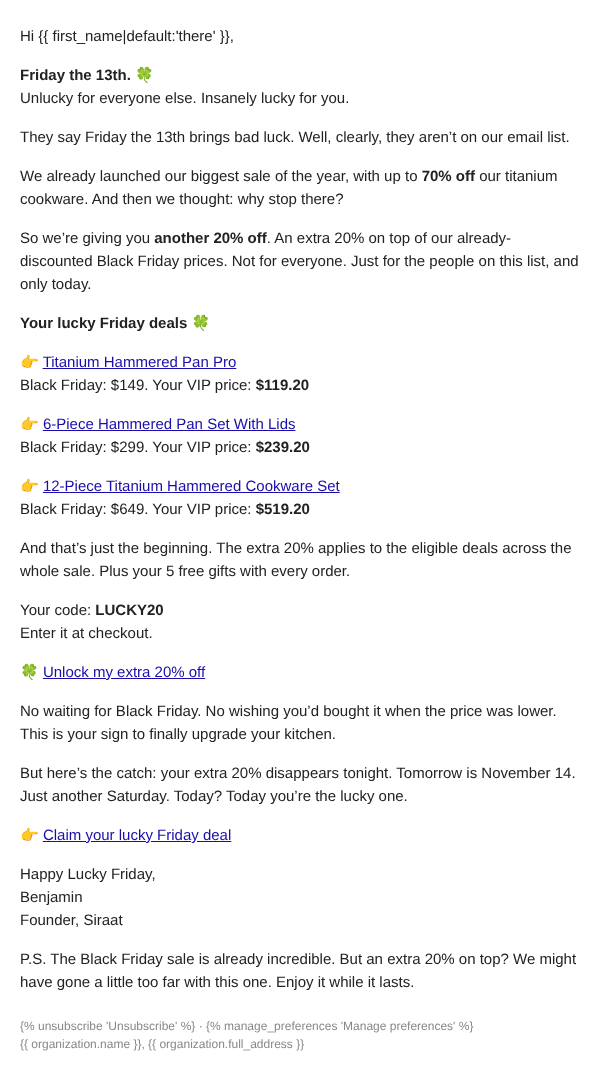
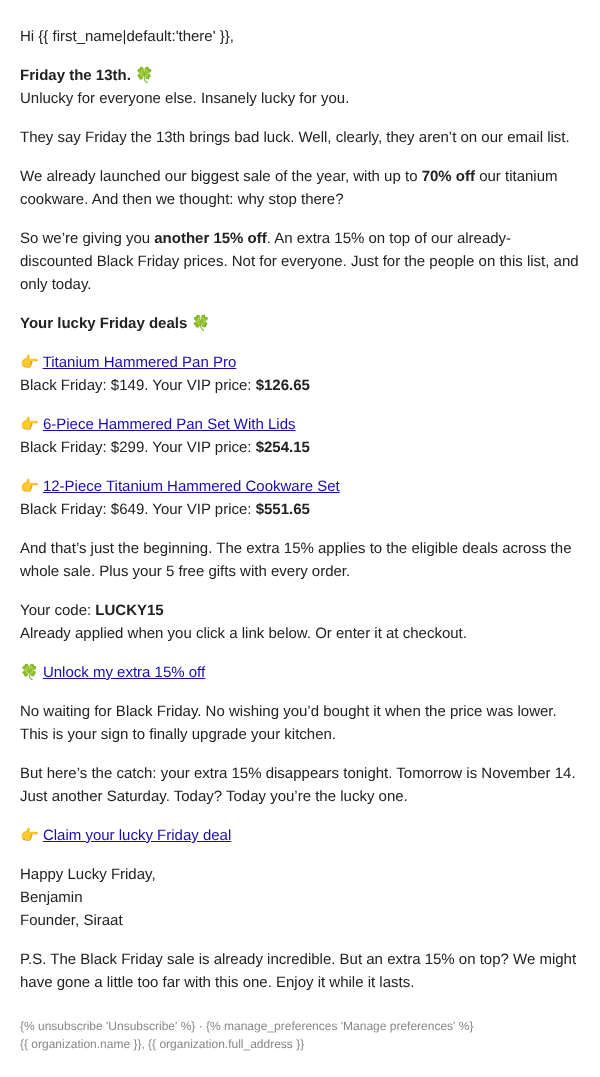
F13: LUCKY15 code en mails naar 15%
Claude-Session: https://claude.ai/code/session_01HjCaDE95ohEXY6DPZTSH67

diff --git a/klaviyo/templates/v3/campaigns/friday13-1113/f13-text-us.html b/klaviyo/templates/v3/campaigns/friday13-1113/f13-text-us.html
@@ -1,26 +1,26 @@
 <!DOCTYPE html>
 <html lang="en"><head><meta charset="utf-8"/><meta name="viewport" content="width=device-width, initial-scale=1"/><title>Friday the 13th</title></head>
 <body style="margin:0;padding:0;background:#ffffff;">
-<div style="display:none;font-size:1px;line-height:1px;max-height:0;max-width:0;opacity:0;overflow:hidden;">An extra 20% off on top of Black Friday. Code LUCKY20, today only.</div>
+<div style="display:none;font-size:1px;line-height:1px;max-height:0;max-width:0;opacity:0;overflow:hidden;">An extra 15% off on top of Black Friday. Code LUCKY15, today only.</div>
 <table role="presentation" width="100%" cellpadding="0" cellspacing="0" border="0" style="background:#ffffff;"><tr><td align="left" style="padding:24px 20px;">
 <table role="presentation" width="100%" cellpadding="0" cellspacing="0" border="0" style="max-width:560px;"><tr><td style="font-family:Arial,Helvetica,sans-serif;font-size:15px;line-height:23px;color:#222222;">
 <p style="margin:0 0 16px 0;">Hi {{ first_name|default:'there' }},</p>
 <p style="margin:0 0 16px 0;"><strong>Friday the 13th. 🍀</strong><br/>Unlucky for everyone else. Insanely lucky for you.</p>
 <p style="margin:0 0 16px 0;">They say Friday the 13th brings bad luck. Well, clearly, they aren&rsquo;t on our email list.</p>
 <p style="margin:0 0 16px 0;">We already launched our biggest sale of the year, with up to <strong>70% off</strong> our titanium cookware. And then we thought: why stop there?</p>
-<p style="margin:0 0 16px 0;">So we&rsquo;re giving you <strong>another 20% off</strong>. An extra 20% on top of our already-discounted Black Friday prices. Not for everyone. Just for the people on this list, and only today.</p>
+<p style="margin:0 0 16px 0;">So we&rsquo;re giving you <strong>another 15% off</strong>. An extra 15% on top of our already-discounted Black Friday prices. Not for everyone. Just for the people on this list, and only today.</p>
 <p style="margin:0 0 16px 0;"><strong>Your lucky Friday deals 🍀</strong></p>
-<p style="margin:0 0 16px 0;">👉 <a href="https://siraatskitchen.com/collections/black-friday?utm_source=klaviyo&amp;utm_medium=email&amp;utm_campaign=f13-1113-us-text&amp;utm_content=panpro" style="color:#1a0dab;text-decoration:underline;">Titanium Hammered Pan Pro</a><br/>Black Friday: $149. Your VIP price: <strong>$119.20</strong></p>
-<p style="margin:0 0 16px 0;">👉 <a href="https://siraatskitchen.com/collections/black-friday?utm_source=klaviyo&amp;utm_medium=email&amp;utm_campaign=f13-1113-us-text&amp;utm_content=6pcs" style="color:#1a0dab;text-decoration:underline;">6-Piece Hammered Pan Set With Lids</a><br/>Black Friday: $299. Your VIP price: <strong>$239.20</strong></p>
-<p style="margin:0 0 16px 0;">👉 <a href="https://siraatskitchen.com/collections/black-friday?utm_source=klaviyo&amp;utm_medium=email&amp;utm_campaign=f13-1113-us-text&amp;utm_content=12pcs" style="color:#1a0dab;text-decoration:underline;">12-Piece Titanium Hammered Cookware Set</a><br/>Black Friday: $649. Your VIP price: <strong>$519.20</strong></p>
-<p style="margin:0 0 16px 0;">And that&rsquo;s just the beginning. The extra 20% applies to the eligible deals across the whole sale. Plus your 5 free gifts with every order.</p>
-<p style="margin:0 0 16px 0;">Your code: <strong>LUCKY20</strong><br/>Enter it at checkout.</p>
-<p style="margin:0 0 16px 0;">🍀 <a href="https://siraatskitchen.com/collections/black-friday?utm_source=klaviyo&amp;utm_medium=email&amp;utm_campaign=f13-1113-us-text&amp;utm_content=cta1" style="color:#1a0dab;text-decoration:underline;">Unlock my extra 20% off</a></p>
+<p style="margin:0 0 16px 0;">👉 <a href="https://siraatskitchen.com/discount/LUCKY15?redirect=/collections/black-friday&amp;utm_source=klaviyo&amp;utm_medium=email&amp;utm_campaign=f13-1113-us-text&amp;utm_content=panpro" style="color:#1a0dab;text-decoration:underline;">Titanium Hammered Pan Pro</a><br/>Black Friday: $149. Your VIP price: <strong>$126.65</strong></p>
+<p style="margin:0 0 16px 0;">👉 <a href="https://siraatskitchen.com/discount/LUCKY15?redirect=/collections/black-friday&amp;utm_source=klaviyo&amp;utm_medium=email&amp;utm_campaign=f13-1113-us-text&amp;utm_content=6pcs" style="color:#1a0dab;text-decoration:underline;">6-Piece Hammered Pan Set With Lids</a><br/>Black Friday: $299. Your VIP price: <strong>$254.15</strong></p>
+<p style="margin:0 0 16px 0;">👉 <a href="https://siraatskitchen.com/discount/LUCKY15?redirect=/collections/black-friday&amp;utm_source=klaviyo&amp;utm_medium=email&amp;utm_campaign=f13-1113-us-text&amp;utm_content=12pcs" style="color:#1a0dab;text-decoration:underline;">12-Piece Titanium Hammered Cookware Set</a><br/>Black Friday: $649. Your VIP price: <strong>$551.65</strong></p>
+<p style="margin:0 0 16px 0;">And that&rsquo;s just the beginning. The extra 15% applies to the eligible deals across the whole sale. Plus your 5 free gifts with every order.</p>
+<p style="margin:0 0 16px 0;">Your code: <strong>LUCKY15</strong><br/>Already applied when you click a link below. Or enter it at checkout.</p>
+<p style="margin:0 0 16px 0;">🍀 <a href="https://siraatskitchen.com/discount/LUCKY15?redirect=/collections/black-friday&amp;utm_source=klaviyo&amp;utm_medium=email&amp;utm_campaign=f13-1113-us-text&amp;utm_content=cta1" style="color:#1a0dab;text-decoration:underline;">Unlock my extra 15% off</a></p>
 <p style="margin:0 0 16px 0;">No waiting for Black Friday. No wishing you&rsquo;d bought it when the price was lower. This is your sign to finally upgrade your kitchen.</p>
-<p style="margin:0 0 16px 0;">But here&rsquo;s the catch: your extra 20% disappears tonight. Tomorrow is November 14. Just another Saturday. Today? Today you&rsquo;re the lucky one.</p>
-<p style="margin:0 0 16px 0;">👉 <a href="https://siraatskitchen.com/collections/black-friday?utm_source=klaviyo&amp;utm_medium=email&amp;utm_campaign=f13-1113-us-text&amp;utm_content=cta2" style="color:#1a0dab;text-decoration:underline;">Claim your lucky Friday deal</a></p>
+<p style="margin:0 0 16px 0;">But here&rsquo;s the catch: your extra 15% disappears tonight. Tomorrow is November 14. Just another Saturday. Today? Today you&rsquo;re the lucky one.</p>
+<p style="margin:0 0 16px 0;">👉 <a href="https://siraatskitchen.com/discount/LUCKY15?redirect=/collections/black-friday&amp;utm_source=klaviyo&amp;utm_medium=email&amp;utm_campaign=f13-1113-us-text&amp;utm_content=cta2" style="color:#1a0dab;text-decoration:underline;">Claim your lucky Friday deal</a></p>
 <p style="margin:0 0 16px 0;">Happy Lucky Friday,<br/>Benjamin<br/>Founder, Siraat</p>
-<p style="margin:0 0 24px 0;">P.S. The Black Friday sale is already incredible. But an extra 20% on top? We might have gone a little too far with this one. Enjoy it while it lasts.</p>
+<p style="margin:0 0 24px 0;">P.S. The Black Friday sale is already incredible. But an extra 15% on top? We might have gone a little too far with this one. Enjoy it while it lasts.</p>
 <p style="margin:0;font-size:12px;line-height:18px;color:#888888;">{% unsubscribe 'Unsubscribe' %} &middot; {% manage_preferences 'Manage preferences' %}<br/>{{ organization.name }}, {{ organization.full_address }}</p>
 </td></tr></table>
 </td></tr></table>

diff --git a/klaviyo/templates/v3/campaigns/friday13-1113/f13-text-int.html b/klaviyo/templates/v3/campaigns/friday13-1113/f13-text-int.html
@@ -1,24 +1,24 @@
 <!DOCTYPE html>
 <html lang="en"><head><meta charset="utf-8"/><meta name="viewport" content="width=device-width, initial-scale=1"/><title>Friday the 13th</title></head>
 <body style="margin:0;padding:0;background:#ffffff;">
-<div style="display:none;font-size:1px;line-height:1px;max-height:0;max-width:0;opacity:0;overflow:hidden;">An extra 20% off on top of Black Friday. Code LUCKY20, today only.</div>
+<div style="display:none;font-size:1px;line-height:1px;max-height:0;max-width:0;opacity:0;overflow:hidden;">An extra 15% off on top of Black Friday. Code LUCKY15, today only.</div>
 <table role="presentation" width="100%" cellpadding="0" cellspacing="0" border="0" style="background:#ffffff;"><tr><td align="left" style="padding:24px 20px;">
 <table role="presentation" width="100%" cellpadding="0" cellspacing="0" border="0" style="max-width:560px;"><tr><td style="font-family:Arial,Helvetica,sans-serif;font-size:15px;line-height:23px;color:#222222;">
 <p style="margin:0 0 16px 0;">Hi {{ first_name|default:'there' }},</p>
 <p style="margin:0 0 16px 0;"><strong>Friday the 13th. 🍀</strong><br/>Unlucky for everyone else. Insanely lucky for you.</p>
 <p style="margin:0 0 16px 0;">They say Friday the 13th brings bad luck. Well, clearly, they aren&rsquo;t on our email list.</p>
 <p style="margin:0 0 16px 0;">We already launched our biggest sale of the year, with up to <strong>70% off</strong> our titanium cookware. And then we thought: why stop there?</p>
-<p style="margin:0 0 16px 0;">So we&rsquo;re giving you <strong>another 20% off</strong>. An extra 20% on top of our already-discounted Black Friday prices. Not for everyone. Just for the people on this list, and only today.</p>
+<p style="margin:0 0 16px 0;">So we&rsquo;re giving you <strong>another 15% off</strong>. An extra 15% on top of our already-discounted Black Friday prices. Not for everyone. Just for the people on this list, and only today.</p>
 <p style="margin:0 0 16px 0;"><strong>Your lucky Friday deals 🍀</strong></p>
-<p style="margin:0 0 16px 0;">👉 <a href="https://siraatskitchen.com/collections/black-friday?utm_source=klaviyo&amp;utm_medium=email&amp;utm_campaign=f13-1113-int-text&amp;utm_content=panpro" style="color:#1a0dab;text-decoration:underline;">Titanium Hammered Pan Pro</a><br/>👉 <a href="https://siraatskitchen.com/collections/black-friday?utm_source=klaviyo&amp;utm_medium=email&amp;utm_campaign=f13-1113-int-text&amp;utm_content=6pcs" style="color:#1a0dab;text-decoration:underline;">6-Piece Hammered Pan Set With Lids</a><br/>👉 <a href="https://siraatskitchen.com/collections/black-friday?utm_source=klaviyo&amp;utm_medium=email&amp;utm_campaign=f13-1113-int-text&amp;utm_content=12pcs" style="color:#1a0dab;text-decoration:underline;">12-Piece Titanium Hammered Cookware Set</a><br/>All an extra 20% off on top of the Black Friday price.</p>
-<p style="margin:0 0 16px 0;">And that&rsquo;s just the beginning. The extra 20% applies to the eligible deals across the whole sale. Plus your 5 free gifts with every order.</p>
-<p style="margin:0 0 16px 0;">Your code: <strong>LUCKY20</strong><br/>Enter it at checkout.</p>
-<p style="margin:0 0 16px 0;">🍀 <a href="https://siraatskitchen.com/collections/black-friday?utm_source=klaviyo&amp;utm_medium=email&amp;utm_campaign=f13-1113-int-text&amp;utm_content=cta1" style="color:#1a0dab;text-decoration:underline;">Unlock my extra 20% off</a></p>
+<p style="margin:0 0 16px 0;">👉 <a href="https://siraatskitchen.com/discount/LUCKY15?redirect=/collections/black-friday&amp;utm_source=klaviyo&amp;utm_medium=email&amp;utm_campaign=f13-1113-int-text&amp;utm_content=panpro" style="color:#1a0dab;text-decoration:underline;">Titanium Hammered Pan Pro</a><br/>👉 <a href="https://siraatskitchen.com/discount/LUCKY15?redirect=/collections/black-friday&amp;utm_source=klaviyo&amp;utm_medium=email&amp;utm_campaign=f13-1113-int-text&amp;utm_content=6pcs" style="color:#1a0dab;text-decoration:underline;">6-Piece Hammered Pan Set With Lids</a><br/>👉 <a href="https://siraatskitchen.com/discount/LUCKY15?redirect=/collections/black-friday&amp;utm_source=klaviyo&amp;utm_medium=email&amp;utm_campaign=f13-1113-int-text&amp;utm_content=12pcs" style="color:#1a0dab;text-decoration:underline;">12-Piece Titanium Hammered Cookware Set</a><br/>All an extra 15% off on top of the Black Friday price.</p>
+<p style="margin:0 0 16px 0;">And that&rsquo;s just the beginning. The extra 15% applies to the eligible deals across the whole sale. Plus your 5 free gifts with every order.</p>
+<p style="margin:0 0 16px 0;">Your code: <strong>LUCKY15</strong><br/>Already applied when you click a link below. Or enter it at checkout.</p>
+<p style="margin:0 0 16px 0;">🍀 <a href="https://siraatskitchen.com/discount/LUCKY15?redirect=/collections/black-friday&amp;utm_source=klaviyo&amp;utm_medium=email&amp;utm_campaign=f13-1113-int-text&amp;utm_content=cta1" style="color:#1a0dab;text-decoration:underline;">Unlock my extra 15% off</a></p>
 <p style="margin:0 0 16px 0;">No waiting for Black Friday. No wishing you&rsquo;d bought it when the price was lower. This is your sign to finally upgrade your kitchen.</p>
-<p style="margin:0 0 16px 0;">But here&rsquo;s the catch: your extra 20% disappears tonight. Tomorrow is November 14. Just another Saturday. Today? Today you&rsquo;re the lucky one.</p>
-<p style="margin:0 0 16px 0;">👉 <a href="https://siraatskitchen.com/collections/black-friday?utm_source=klaviyo&amp;utm_medium=email&amp;utm_campaign=f13-1113-int-text&amp;utm_content=cta2" style="color:#1a0dab;text-decoration:underline;">Claim your lucky Friday deal</a></p>
+<p style="margin:0 0 16px 0;">But here&rsquo;s the catch: your extra 15% disappears tonight. Tomorrow is November 14. Just another Saturday. Today? Today you&rsquo;re the lucky one.</p>
+<p style="margin:0 0 16px 0;">👉 <a href="https://siraatskitchen.com/discount/LUCKY15?redirect=/collections/black-friday&amp;utm_source=klaviyo&amp;utm_medium=email&amp;utm_campaign=f13-1113-int-text&amp;utm_content=cta2" style="color:#1a0dab;text-decoration:underline;">Claim your lucky Friday deal</a></p>
 <p style="margin:0 0 16px 0;">Happy Lucky Friday,<br/>Benjamin<br/>Founder, Siraat</p>
-<p style="margin:0 0 24px 0;">P.S. The Black Friday sale is already incredible. But an extra 20% on top? We might have gone a little too far with this one. Enjoy it while it lasts.</p>
+<p style="margin:0 0 24px 0;">P.S. The Black Friday sale is already incredible. But an extra 15% on top? We might have gone a little too far with this one. Enjoy it while it lasts.</p>
 <p style="margin:0;font-size:12px;line-height:18px;color:#888888;">{% unsubscribe 'Unsubscribe' %} &middot; {% manage_preferences 'Manage preferences' %}<br/>{{ organization.name }}, {{ organization.full_address }}</p>
 </td></tr></table>
 </td></tr></table>

diff --git a/LOG.md b/LOG.md
@@ -520,3 +520,4 @@ Nieuwste bovenaan. Elke regel: datum, wat er gedaan is, wat het opleverde of wat
 - 2026-11-13: F13 uitsluiting geanalyseerd. Kopers 30 dagen in audience: 5,548 (US 4,340, INT 1,208), waarvan 2,167 met onvervulde laatste order (US 2,124, vooral 8 tot 30 dagen oud, backorders). Advies optie A (alle kopers 30 dagen uitsluiten, ook vanwege 30 dagen retour als price-match route). Segment WFqvwp 'Siraat // Buyers last 30 days (F13 exclusion)' aangemaakt, nog niet aan campagnes gekoppeld (Floris beslist). Notitie research/plannen/2026-11-f13-exclusion.md.
 - 2026-11-13: segment WFqvwp (kopers laatste 30 dagen, 4.340 US / 1.208 INT) als uitsluiting toegevoegd aan beide F13-drafts (Floris wilde L30-kopers uitsluiten). Nog niet ingepland.
 - 2026-11-13: F13 uitsluiting naar 3 weken (Floris): nieuw segment UMZBB6 'Siraat // Buyers last 21 days (F13 exclusion)' (8.414 profielen, Placed Order > 0 in laatste 21 dagen) vervangt WFqvwp op beide drafts (US 01M7ANQKQ2ZR413ZDVBN79JZ4W, INT 01M7ANQP4Y8G9PKT2B8JMG9CBB). Tekst-only templates gekoppeld, smart sending aan, niet ingepland.
+- 2026-11-13: F13 naar 15% (Floris, 20% bewaard voor BF-flash). Shopify-code LUCKY15 aangemaakt (DiscountCodeNode 2369946517844): 15% alle producten, alle klanten, 1x per klant, combineerbaar met product- en verzendkortingen (gifts blijven), geldig 13 nov 09:00 UTC tot 14 nov 04:59 UTC (23:59 ET). Tekst-only mails US/INT (templates Yq2SSQ, XBKjzr) aangepast: 15%, prijzen $126.65/$254.15/$551.65, links via /discount/LUCKY15?redirect=/collections/black-friday, preview-tekst bijgewerkt. Drafts, niet ingepland.
